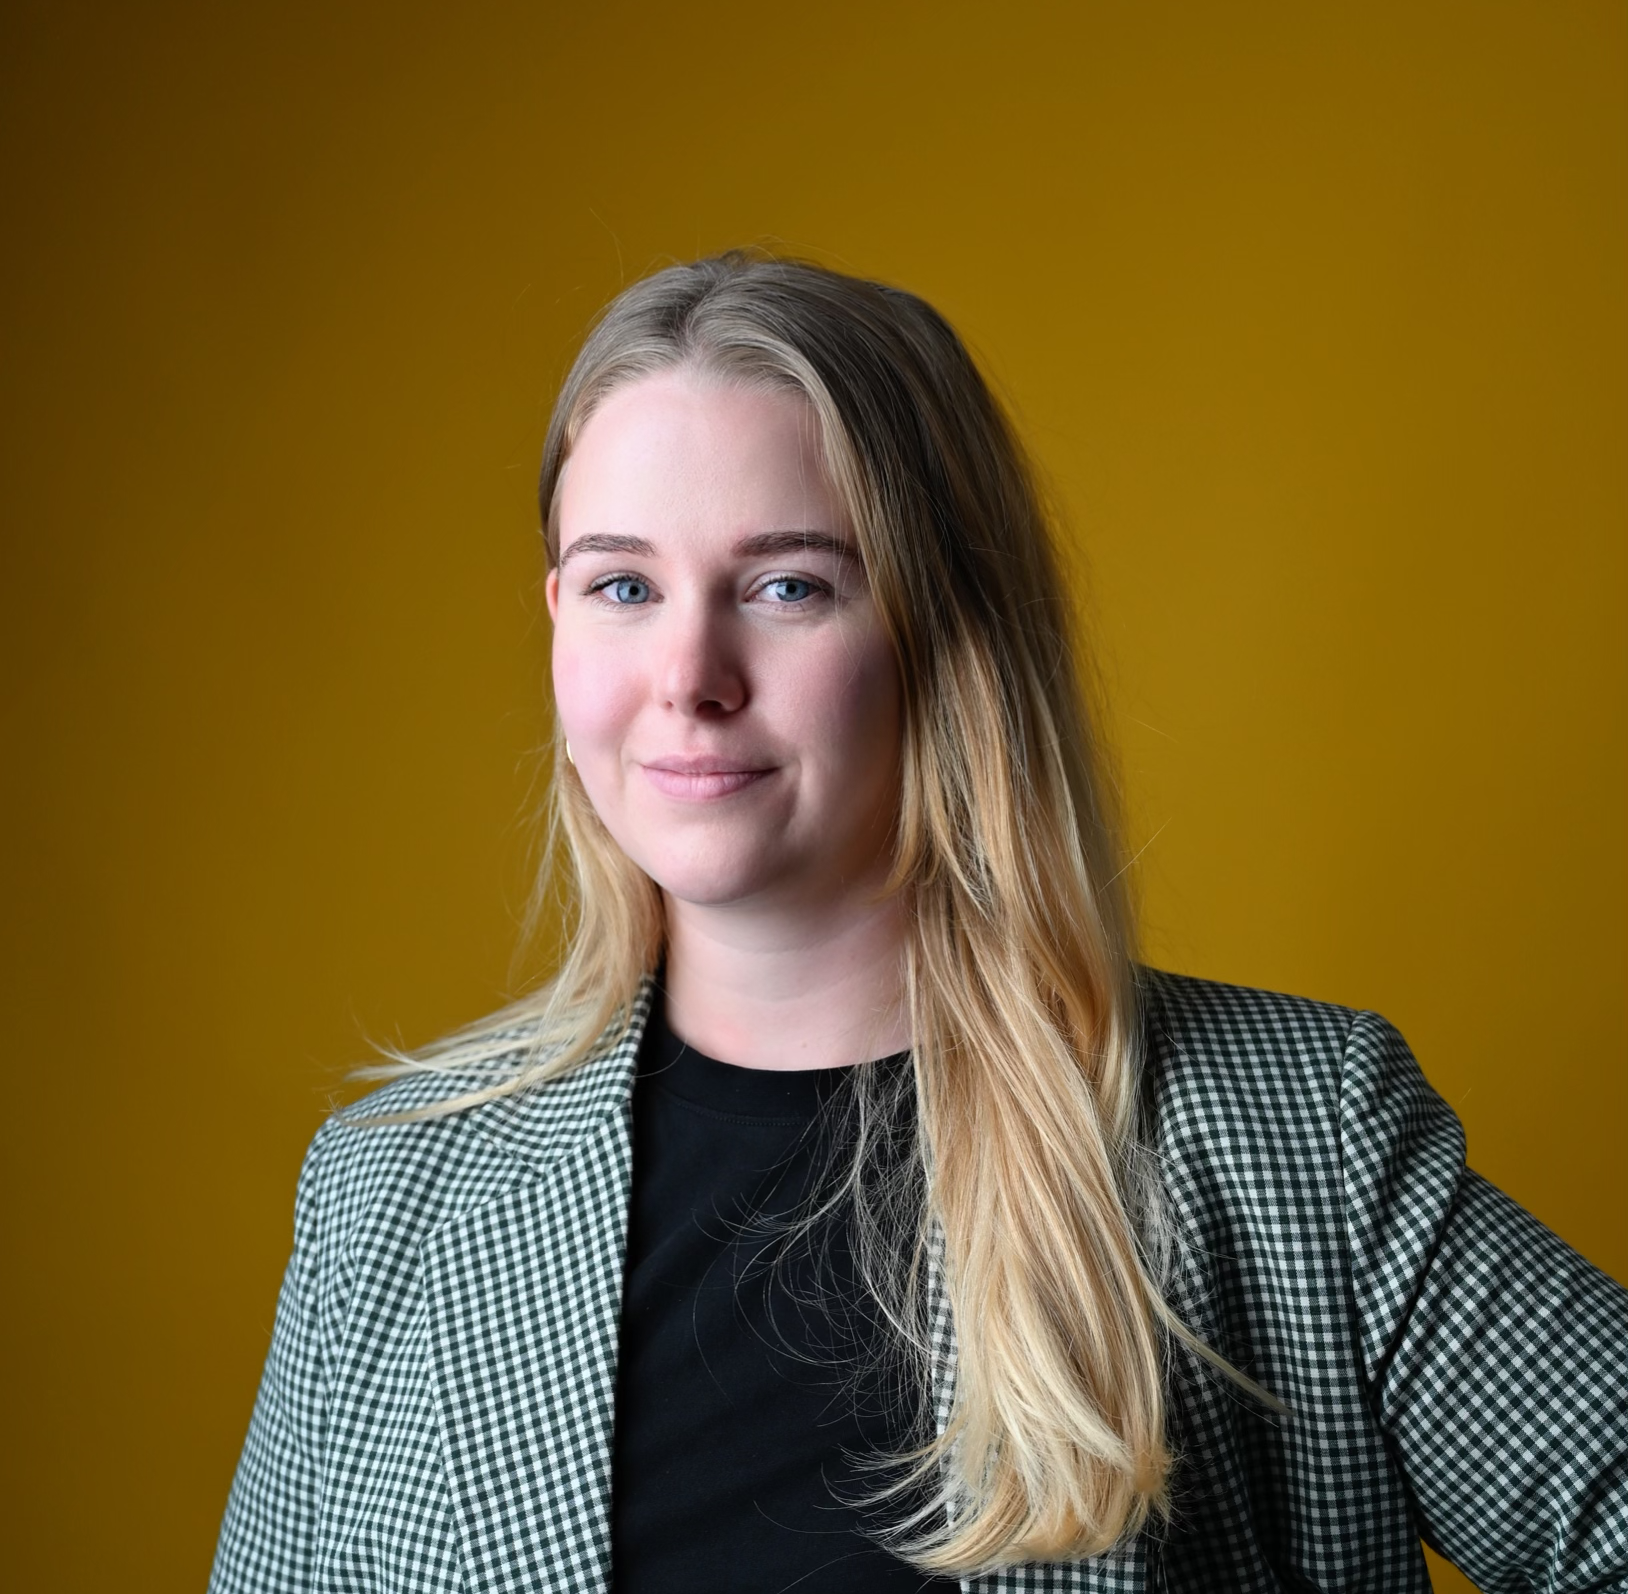
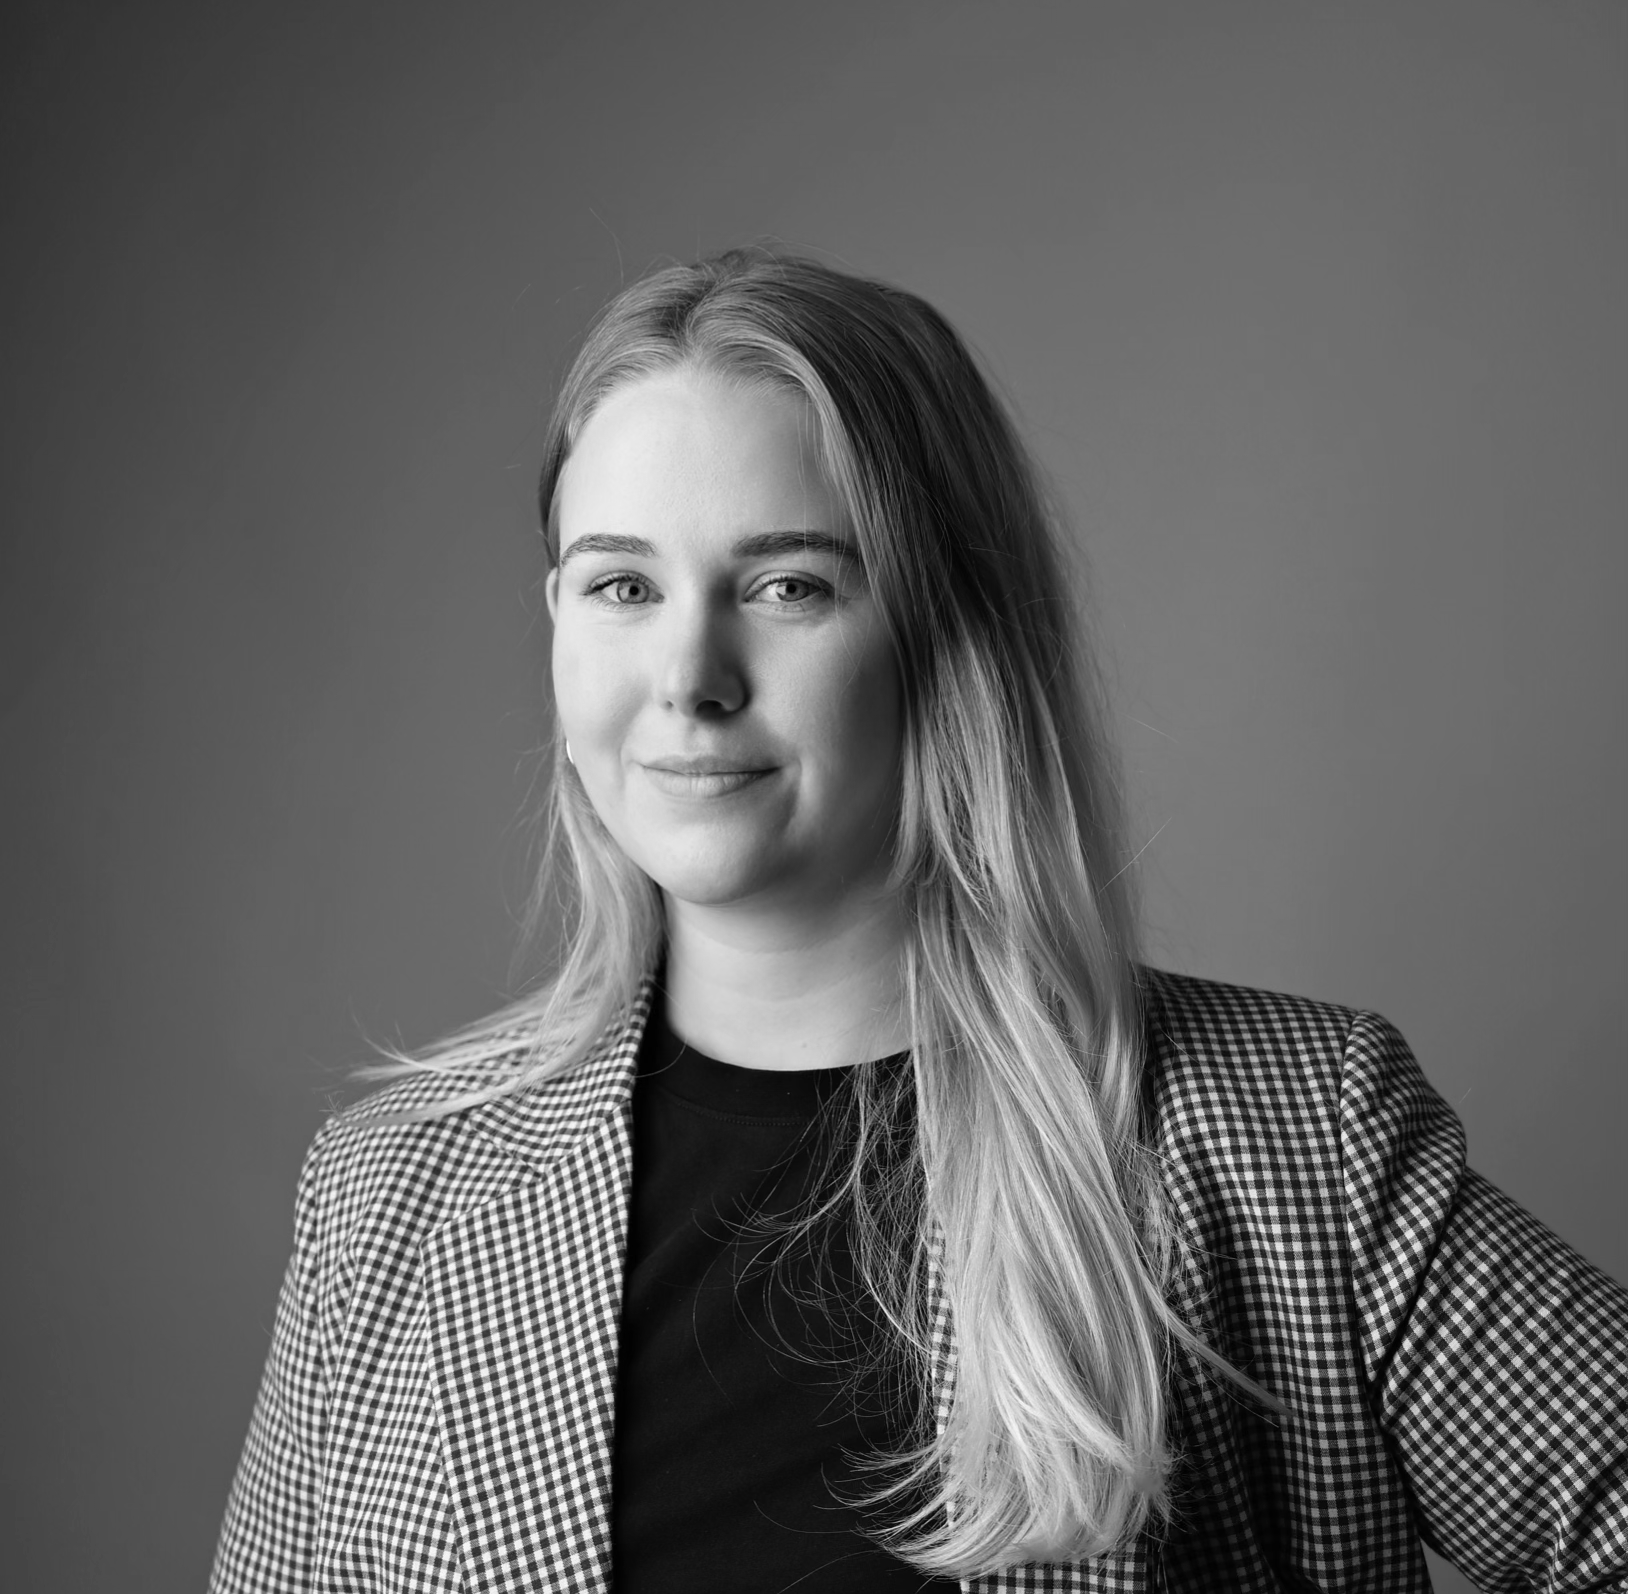
new pic and breakpoint edit

diff --git a/index.html b/index.html
@@ -1,4 +1,5 @@
 <!DOCTYPE html>
+<!--My page is in english, but some of my projects use danish letters so I'm choosing "da" to make sure they work on my page-->
 <html lang="da">
 
 <head>
@@ -35,10 +36,10 @@
     <section class="services">
         <h2>SERVICES</h2>
         <div class="mememe">
-        <p>I'm Rebecca and I'm amMultimedia design student. I design and create digital content through my school as well as in my free time. Everything from web
+        <p>I'm Rebecca and I'm a multimedia design student. I design and create digital content through my school as well as in my free time. Everything from web
             design, coding, content plan, logo design and editing of various digital content. The visual identity you
             put out as a brand, is what makes your brand come to life and give it personality and soul. This is why it
-            is such an important thing for you and your company - and I know that. I want to create a visual experience for you, big or small, 
+            is such an important thing for you and your company - and I know that. I want to create a visual experience for you, 
             and I’ll make sure you’re 100% satisfied.</p>
         </div>
         <div class="box">
@@ -49,13 +50,13 @@
             </div>
             <div class="editing">
                 <h3>Editing</h3>
-                <p>I offer photo and video editing. Weather it's big or small I will make sure you are left with a
+                <p>I do photo and video editing. Weather it's big or small I will make sure you are left with a
                     professionel final produkt. </p>
             </div>
             <div class="some">
                 <h3>Social</h3>
-                <p>I can create content for all social media platforms. I will put together a contentplan that fits your
-                    visial identity - tailered to your targetet audiance.</p>
+                <p>I can create SoMe content for all platforms, and create a contentplan that fits your
+                    visial identity - tailered to your audiance.</p>
             </div>
         </div>
     </section>

diff --git a/about.html b/about.html
@@ -1,4 +1,5 @@
 <!DOCTYPE html>
+<!--My page is in english, but some of my projects use danish letters so I'm choosing "da" to make sure they work on my page-->
 <html lang="da">
 
 <head>
@@ -33,16 +34,16 @@
     </section>
 
     <div>
-        <img src="img/artistpic.png" class="img-me" alt="me">
+        <img src="img/artist.png" class="img-me" alt="me">
     </div>
 
     <section class="info">
         <p>My name is Rebecca, I'm 27 years old and a first year multimedia design student at Zealand, Køge. I live in
-            Denmark, Roskilde, but I’ve also spent arears year in London, as well as Edinburgh. I enjoy traveling and taking
+            Denmark, Roskilde, but I’ve also spent a year in London, as well as Edinburgh. I enjoy traveling and taking
             inspiration from different cultures. My style is colorful, lively, soft yet full of energy, and I take joy in
             the unexpected. My passion is design and I love what I do, which always shinnes through in my work. I like 
             undertaking a wide range of tasks within the design world, in all different arears. I have a general knowlegde of 
-            many different multimedia tools and applications, which is listed below in my Skills section. Feel free to have a 
+            many different multimedia tools and applications, which is listed below in my skills section. Feel free to have a 
             look at my resume, or some of my previous work, and get in contact about future projects.</p>
         <a href="img/2021-CV.pdf" target="_blank">Resume</a>
     </section>

diff --git a/stylesheet.css b/stylesheet.css
@@ -129,8 +129,8 @@ nav ul li a:hover {
 .design, .editing, .some{
     border: 3px solid #464545;
     border-radius: 20px;
-    padding: 40px;
-    margin: 10px;
+    padding: 35px;
+    margin: 5px;
     text-align: center;
     width: 200px;
     height: 250px;
@@ -439,9 +439,7 @@ footer img{
     margin: 10px 5px 10px 5px;
 }
 
-/* Desktop css*/
-
-@media screen and (min-width: 720px) {
+@media screen and (min-width: 768px){
 
     nav{
         flex-direction: row;
@@ -455,6 +453,7 @@ footer img{
     .services{
         margin-top: 280px;
     }
+
     .mememe{
         margin: 30px 180px 30px 180px;
     }
@@ -465,6 +464,21 @@ footer img{
         justify-content: center;
         
     }
+
+    .design, .editing, .some{
+        margin: 20px;
+    }
+
+    .about{
+        flex-direction: row;
+        justify-content: center;
+    }
+
+}
+
+/* Desktop css*/
+
+@media screen and (min-width: 992px) {
 
     .design, .editing, .some{
         margin: 30px;
@@ -501,10 +515,6 @@ footer img{
         
     }
 
-    .about{
-        flex-direction: row;
-        justify-content: center;
-    }
 
     .skills, .experience{
         margin: 30px;

diff --git a/dans.html b/dans.html
@@ -1,4 +1,5 @@
 <!DOCTYPE html>
+<!--My page is in english, but some of my projects use danish letters so I'm choosing "da" to make sure they work on my page-->
 <html lang="da">
 
 <head>

diff --git a/livslæring.html b/livslæring.html
@@ -1,4 +1,5 @@
 <!DOCTYPE html>
+<!--My page is in english, but some of my projects use danish letters so I'm choosing "da" to make sure they work on my page-->
 <html lang="da">
 
 <head>

diff --git a/panda.html b/panda.html
@@ -1,4 +1,5 @@
 <!DOCTYPE html>
+<!--My page is in english, but some of my projects use danish letters so I'm choosing "da" to make sure they work on my page-->
 <html lang="da">
 
 <head>

diff --git a/procreate.html b/procreate.html
@@ -1,4 +1,5 @@
 <!DOCTYPE html>
+<!--My page is in english, but some of my projects use danish letters so I'm choosing "da" to make sure they work on my page-->
 <html lang="da">
 
 <head>

diff --git a/video.html b/video.html
@@ -1,4 +1,5 @@
 <!DOCTYPE html>
+<!--My page is in english, but some of my projects use danish letters so I'm choosing "da" to make sure they work on my page-->
 <html lang="da">
 
 <head>

diff --git a/work.html b/work.html
@@ -1,4 +1,5 @@
 <!DOCTYPE html>
+<!--My page is in english, but some of my projects use danish letters so I'm choosing "da" to make sure they work on my page-->
 <html lang="da">
 
 <head>
